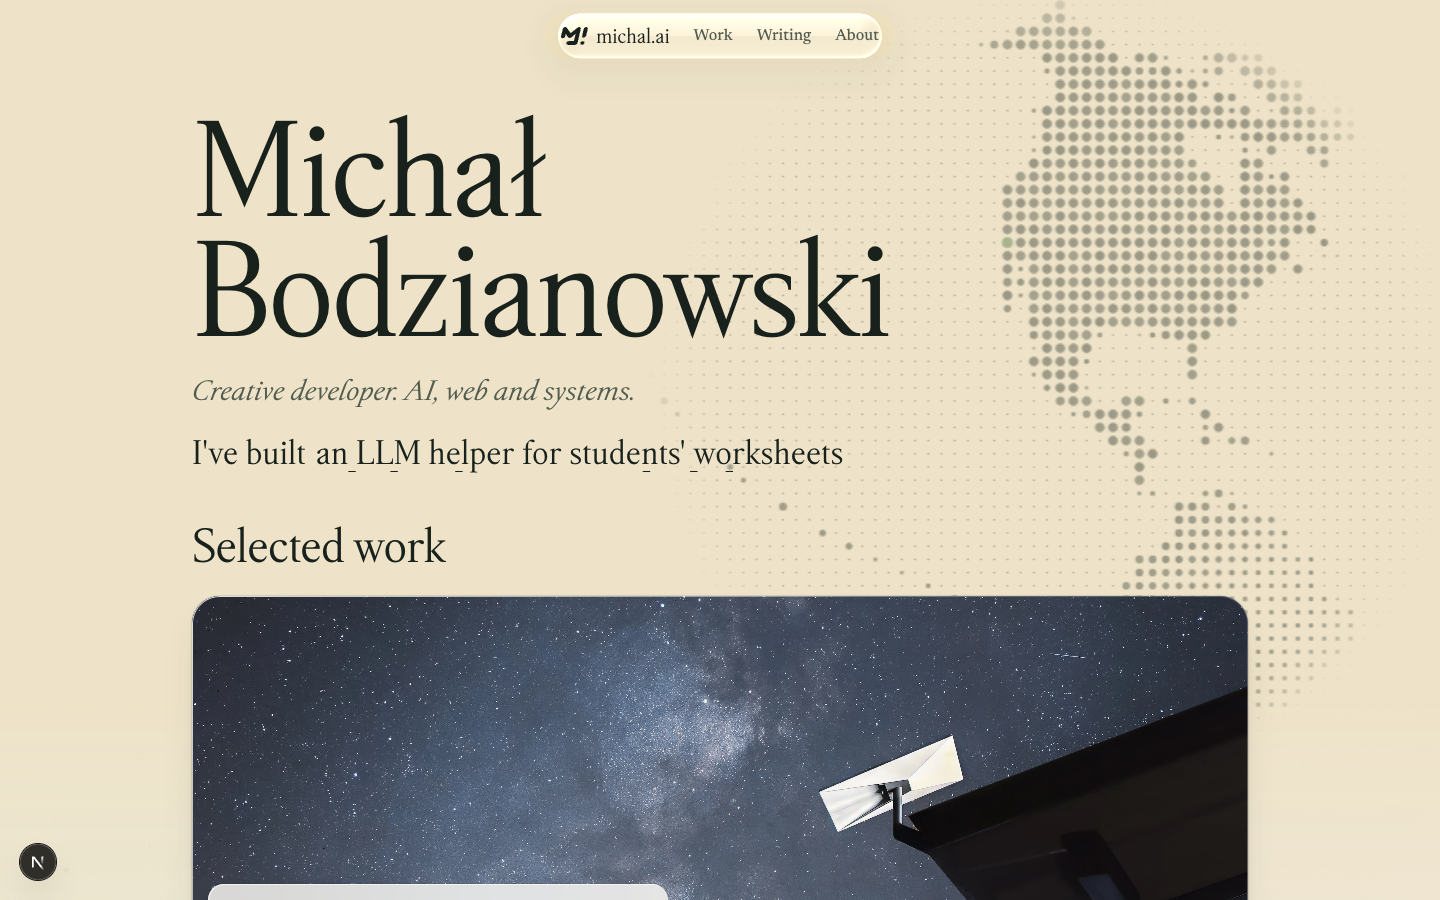
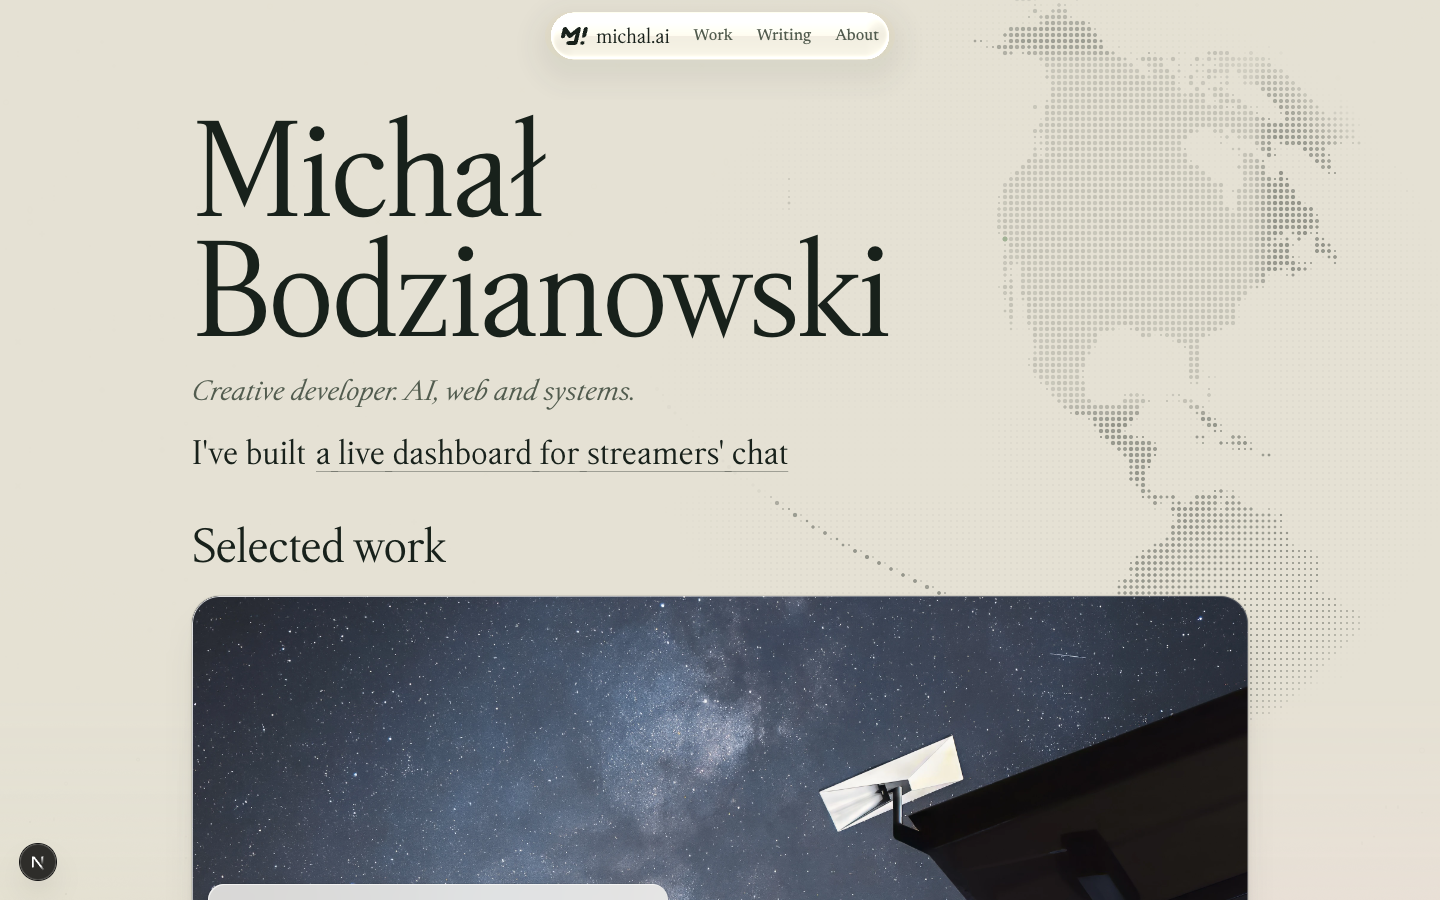
WIP: backdrop docs, design references, bake report

diff --git a/apps/michal-ai/docs/backdrop.md b/apps/michal-ai/docs/backdrop.md
@@ -1,0 +1,113 @@
+# Page backdrop
+
+A fixed, full-viewport layer behind every page: cream paper with pale CMYK ink-wash blobs, soft god rays and a faint glyph
+star field, with real shader lensing where glass cards sit on top. It replaces the old dots-and-noise layer
+(`.paper-grid`), which stays as the fallback and as the first paint.
+
+Files (all in `components/site/`):
+
+| File | Job |
+| --- | --- |
+| `PaperGrid.tsx` | Mounts `.paper-grid` in the root layout (all pages), starts the engine, owns the fallback state |
+| `paper-grid.css` | The CSS layer (baked image, dots, noise), canvas fade-in, dark variant, print, reduced motion |
+| `backdrop/config.ts` | **Every tunable**, one object |
+| `backdrop/shaders.ts` | The two GLSL passes |
+| `backdrop/engine.ts` | WebGL2 setup, frame pacing, glass-rect tracker, context loss, bake hook |
+| `scripts/bake-backdrop.mjs` | Writes `public/backdrop/blobs-{light,dark}.webp` from the shader itself; `--report` measures extremes and contrast |
+| `scripts/backdrop-shots.mjs` | Headless-Chrome screenshots into `docs/backdrop-shots/` |
+
+## What it is
+
+An "inversion" of a space scene, printed in negative. The paper stays the warm beige token (`--paper`, `#f4f1e8`). The sky is
+dark ink terminal glyphs. The nebulae are soft process-colour washes (cyan, magenta, yellow) multiplied into the paper like ink
+bleeding into cream stock.
+
+Layers, back to front, in one canvas and one WebGL2 context:
+
+1. Paper base, the exact token colour (so there is no seam against CSS-coloured areas).
+2. Five very large blobs (radius 0.85 to 1.15 of U, U = max(viewport width, 700px), so each is 1.7 to 2.3 viewport widths across).
+   Domain-warped, gaussian falloff, blended subtractively (multiply), so overlaps mix like inks (cyan plus yellow gives a pale
+   green). They drift on orbits with 250 to 400 second periods and move at 0.15 of page scroll. The field repeats vertically
+   (2.6 U), so long pages never run out of colour.
+3. God rays from an off-screen point at the top right: a few wide shafts from angular value noise, slowly breathing, lifting the
+   paper toward a warm white and leaving a faint cyan/magenta fringe on their edges. 0.06 of scroll.
+4. Glyph field on a fixed 12px character grid (the globe's matrix is 6px, the old paper pitch 24px): `. · : + × * ° ' o 0`, 4-point
+   stars built as SDFs per cell, constellation segments from `- | / \` with `*` nodes, and a rare shooting star (one every 80s,
+   five seconds to cross) leaving a fading trail. Glyphs gather where colour gathers (the density comes from the same blob
+   weights plus a cluster noise) and are rare in voids. Ink is the globe's ink (`0.13 0.13 0.11`), alpha capped at 0.22, slow
+   opacity-only twinkle, thinned to 0.45 behind the reading column. Parallax 0.32 of scroll.
+5. Static paper grain on top.
+
+Render path: pass 1 draws layers 1 to 3 plus the glyph density at 1/6 resolution into a texture; pass 2 composites at device
+resolution (DPR capped at 2) with the glyph SDFs, lensing and grain. Soft layers are cheap and smooth at 1/6; glyphs need
+device pixels, so they are drawn in the full-resolution pass. Both passes are one context and one `requestAnimationFrame` loop.
+
+## Glass lensing
+
+Any element matching `[data-glass-lens], .tile` is tracked (up to 16). Their viewport rects and corner radii are read from
+`getBoundingClientRect` each drawn frame (one passive scroll listener is not even needed: the loop reads `scrollY`), offscreen ones
+are dropped by an `IntersectionObserver`, and the set is rescanned (debounced) when the DOM changes. In the composite pass, for
+pixels inside a rect (early-out by bounding box), the sample position is bent by a rounded-rect SDF profile: strongest
+within 15px of the edge (11px of displacement at the very edge), near zero in the middle, with 2.5 percent magnification, a
+1.6px cyan/magenta channel split at the edge and a thin specular rim lit from the top left. Glyph specks and washes visibly bend
+at card edges while scrolling. While glass rects are on screen scroll redraws run at 60Hz so the rim stays glued to the card.
+
+`<html data-backdrop-lens="on">` is set while the shader runs, removed on fallback, so card CSS can react to it (for example to
+lower its own `backdrop-filter` blur, which softens what the shader draws). The card CSS is not changed by this work.
+
+## Fallbacks
+
+| Case | Behaviour |
+| --- | --- |
+| No WebGL2, shader compile failure, `?backdrop=off`, `prefers-reduced-transparency` | CSS layer only: baked WebP of the blob field (`public/backdrop/blobs-*.webp`, from the shader), 24px dots, noise tile |
+| Context lost | The CSS layer returns at once, the canvas is hidden; on `webglcontextrestored` the programs are rebuilt and the canvas comes back |
+| `prefers-reduced-motion` | One fully static frame (fixed time, no scroll parallax, no shooting star, no lensing), redrawn only on resize or theme change |
+| Tab hidden | The loop does nothing (no draws) and redraws once when visible again |
+| Print | Hidden |
+
+First paint is the CSS layer (same blobs, baked), the canvas starts transparent and fades in over 1.1s while the CSS layer fades
+out, so there is no flash and no layout shift (the layer is `position: fixed`).
+
+## Pages and themes
+
+The backdrop is mounted on every page (it was home-only). Light is the primary theme. The dark variant (deep paper base `#121612`,
+dim additive blobs and rays, light glyph ink) applies only where the tokens go dark, which is `:root[data-reading]` under
+`prefers-color-scheme: dark`; the home and index pages are always light, as before. The theme change cross-fades (about 250ms).
+
+The home hero has its own flat tint layer (`.hero-atm`, z -1) that sits above the backdrop (z -2): in the first screen the
+backdrop is largely hidden behind that tint. The tint fades out toward the work section, so the backdrop takes over from
+there. Not changed.
+
+## Tunables (`backdrop/config.ts`)
+
+See the file for the current values; the important ones:
+
+| Key | Meaning |
+| --- | --- |
+| `blobs[]` | five blobs: pigment, centre (x, y in U), radius `r`, peak coverage `amp`, drift amplitude and period per axis |
+| `PIGMENT` | pastel process colours multiplied into the paper |
+| `repeat`, `warp` | vertical repeat of the field (U), domain warp strength (U) |
+| `lumFloorLight` | **hard floor** on backdrop luma relative to the paper (0.93) |
+| `lumCeilDark`, `darkGlow` | dark mode: ceiling on backdrop luminance, glow amount |
+| `rays.*` | strength, edge fringe, origin, dark strength |
+| `glyphs.cellPx / density / alpha` | grid pitch (12), chance per cell (0.034), opacity cap (0.22) |
+| `glyphs.constellationChance`, `shootingEvery` | constellations per 14x14 block (0.1), shooting star period (80s) |
+| `glyphs.thin*` | thinning behind the reading column |
+| `lens.*` | edge band, bend, magnification, channel split, rim width and strength |
+| `parallax.*` | fraction of page scroll per layer |
+| `fps.idle / scroll` | redraw rates: 12 idle, 30 while scrolling with no glass on screen (60 with glass) |
+| `lowResDivisor`, `maxDpr` | 6, 2 |
+
+## Contrast
+
+The luma floor is enforced in the shader (a scale on the ink amount, so it is continuous, not a clip): no light-mode backdrop
+pixel is below `lumFloorLight` of the paper's luma, whatever the blob overlap. Measured numbers (from `bake-backdrop.mjs --report`,
+which renders 24 time and scroll combinations and scans every pixel) are in the PR description and below.
+
+CONTRAST_TABLE
+
+## Verification
+
+`npm run dev:michal`, then `node apps/michal-ai/scripts/backdrop-shots.mjs http://localhost:3000` (Chrome with software GL;
+the first load of each page takes a while because SwiftShader compiles the composite shader slowly, real GPUs do not). Add
+`?backdrop=off` to any URL to compare against the CSS layer.

diff --git a/apps/michal-ai/docs/design-references.md b/apps/michal-ai/docs/design-references.md
@@ -86,6 +86,26 @@ Starlink image: the build makes 480/960/1600/2400 AVIF and WebP variants. Served
 - Contrast over the busiest backdrop (text hidden, darkest pixel under each text block, desktop): meta 6.25, description 6.67, title 8.81. Phone not measured.
 - Scroll on a 4x throttled 375px profile in headless Chrome with software GL: frame p50 33ms, p95 50ms, max 100ms, 0 long tasks (it was p50 17 / p95 33 before the glass and grid; relative only).
 
+## Page backdrop: ink-wash blobs, god rays, glyph star field, glass lensing (2026-10-12)
+
+Replaces the graph-paper dots. Nothing here was measured in a browser pass; precedents are named so they can be opened and
+compared, and the "How verified" column says what was and was not checked.
+
+| Element | Reference | What we take from it | How verified |
+| --- | --- | --- | --- |
+| Very large, slow, soft colour blobs on a page background | stripe.com home hero (WebGL gradient, the open-source "stripe-gradient" mesh shader), apple.com colour washes behind product pages | Colour fields wider than the viewport, edges with no visible shape, motion measured in tens of seconds; the page never shows a distinct blob | Matched by eye from memory of those pages, not opened in this pass |
+| Pale, subtractive process-colour inks on cream stock | Risograph and CMYK print (misregistration, overprint: cyan over yellow gives green); the owner's own 2023 site (below) | Multiply blending so overlaps mix like inks, kept pale, never emissive | Overlap colours checked in the shader output; print precedent is a process, not a site |
+| Soft light shafts from an off-screen point | linear.app and vercel.com hero light fields and "god ray" gradients | A few wide, low-contrast shafts, slowly breathing, never a hard edge | Matched by eye, not measured |
+| Terminal glyph / dot-matrix field as texture | The hero globe on this site (6px dot matrix, ink `0.13 0.13 0.11`, 0.28 to 0.42 of ink); ASCII and glyph fields on studio and developer sites (for example ordered-dither and character-grid heroes) | Same pitch family (12px cell, 6px matrix), same ink, same "faint speck" size; symbol variety on top (`. : + x * o`, 4-point stars, constellation segments, a rare shooting star) | Ink, radius and alpha read from `components/presence/globe/renderer.ts`; the studio-site precedents were not opened |
+| Glyph opacity | Our own contrast rule | Capped at 0.22 so 4.5:1 holds for muted ink over the worst glyph pixel | Computed, see docs/backdrop.md |
+| Glass lensing: edge-weighted refraction, slight magnification, chromatic split, thin specular rim | Apple Liquid Glass (iOS 26, apple.com), the same references as the glass cards above | Bend concentrated in the first ~15px, almost nothing in the middle, rim lit from the top left | Not measurable on the web (see the glass section above); matched by eye |
+
+Original site (2023, first commits `4ca66cb` "added really cool bg shader" and `4f5934a`): a react-three-fiber full-screen plane
+(`components/BGAnim.tsx`, `BGShaders.tsx`) with a domain-warped fbm displacement driving contour lines in a yellow `#F2EA72`
+to cyan `#6DF7F5` gradient over deep indigo (`#1A041B`, `#150C64`), slowly animated, dark and saturated, behind frosted-glass
+panels. This backdrop keeps its spirit (warped noise fields in yellow and cyan, slow, behind glass) and inverts it: pale
+inks on cream instead of neon on near-black.
+
 ## Citation (verified)
 
 Piecing Together Teamwork: A Responsible Approach to an LLM-based Educational Jigsaw Agent. Emily Doherty, E. Margaret Perkoff, Sean von Bayern, Rui Zhang, Indrani Dey, Michal Bodzianowski, Sadhana Puntambekar, Leanne Hirshfield. Proceedings of the 2025 CHI Conference on Human Factors in Computing Systems, pp. 1-17, ACM, published 2025-04-25, doi:10.1145/3706598.3713349. Sources opened: Crossref (`api.crossref.org/works/10.1145/3706598.3713349`, which returns title, authors in order, container, pages and date) and dblp (search results list this title with Michal Bodzianowski among the authors). The ACM page (dl.acm.org) returned a Cloudflare bot check, so it was not opened. Another record with his name: Mason et al., "Coronal Heating as Determined by the Solar Flare Frequency Distribution Obtained by Aggregating Case Studies", The Astrophysical Journal, 2023, doi:10.3847/1538-4357/accc89 (a large CU Boulder class author list). I cannot tell from the record that it is the same person, so it is not on the site.
